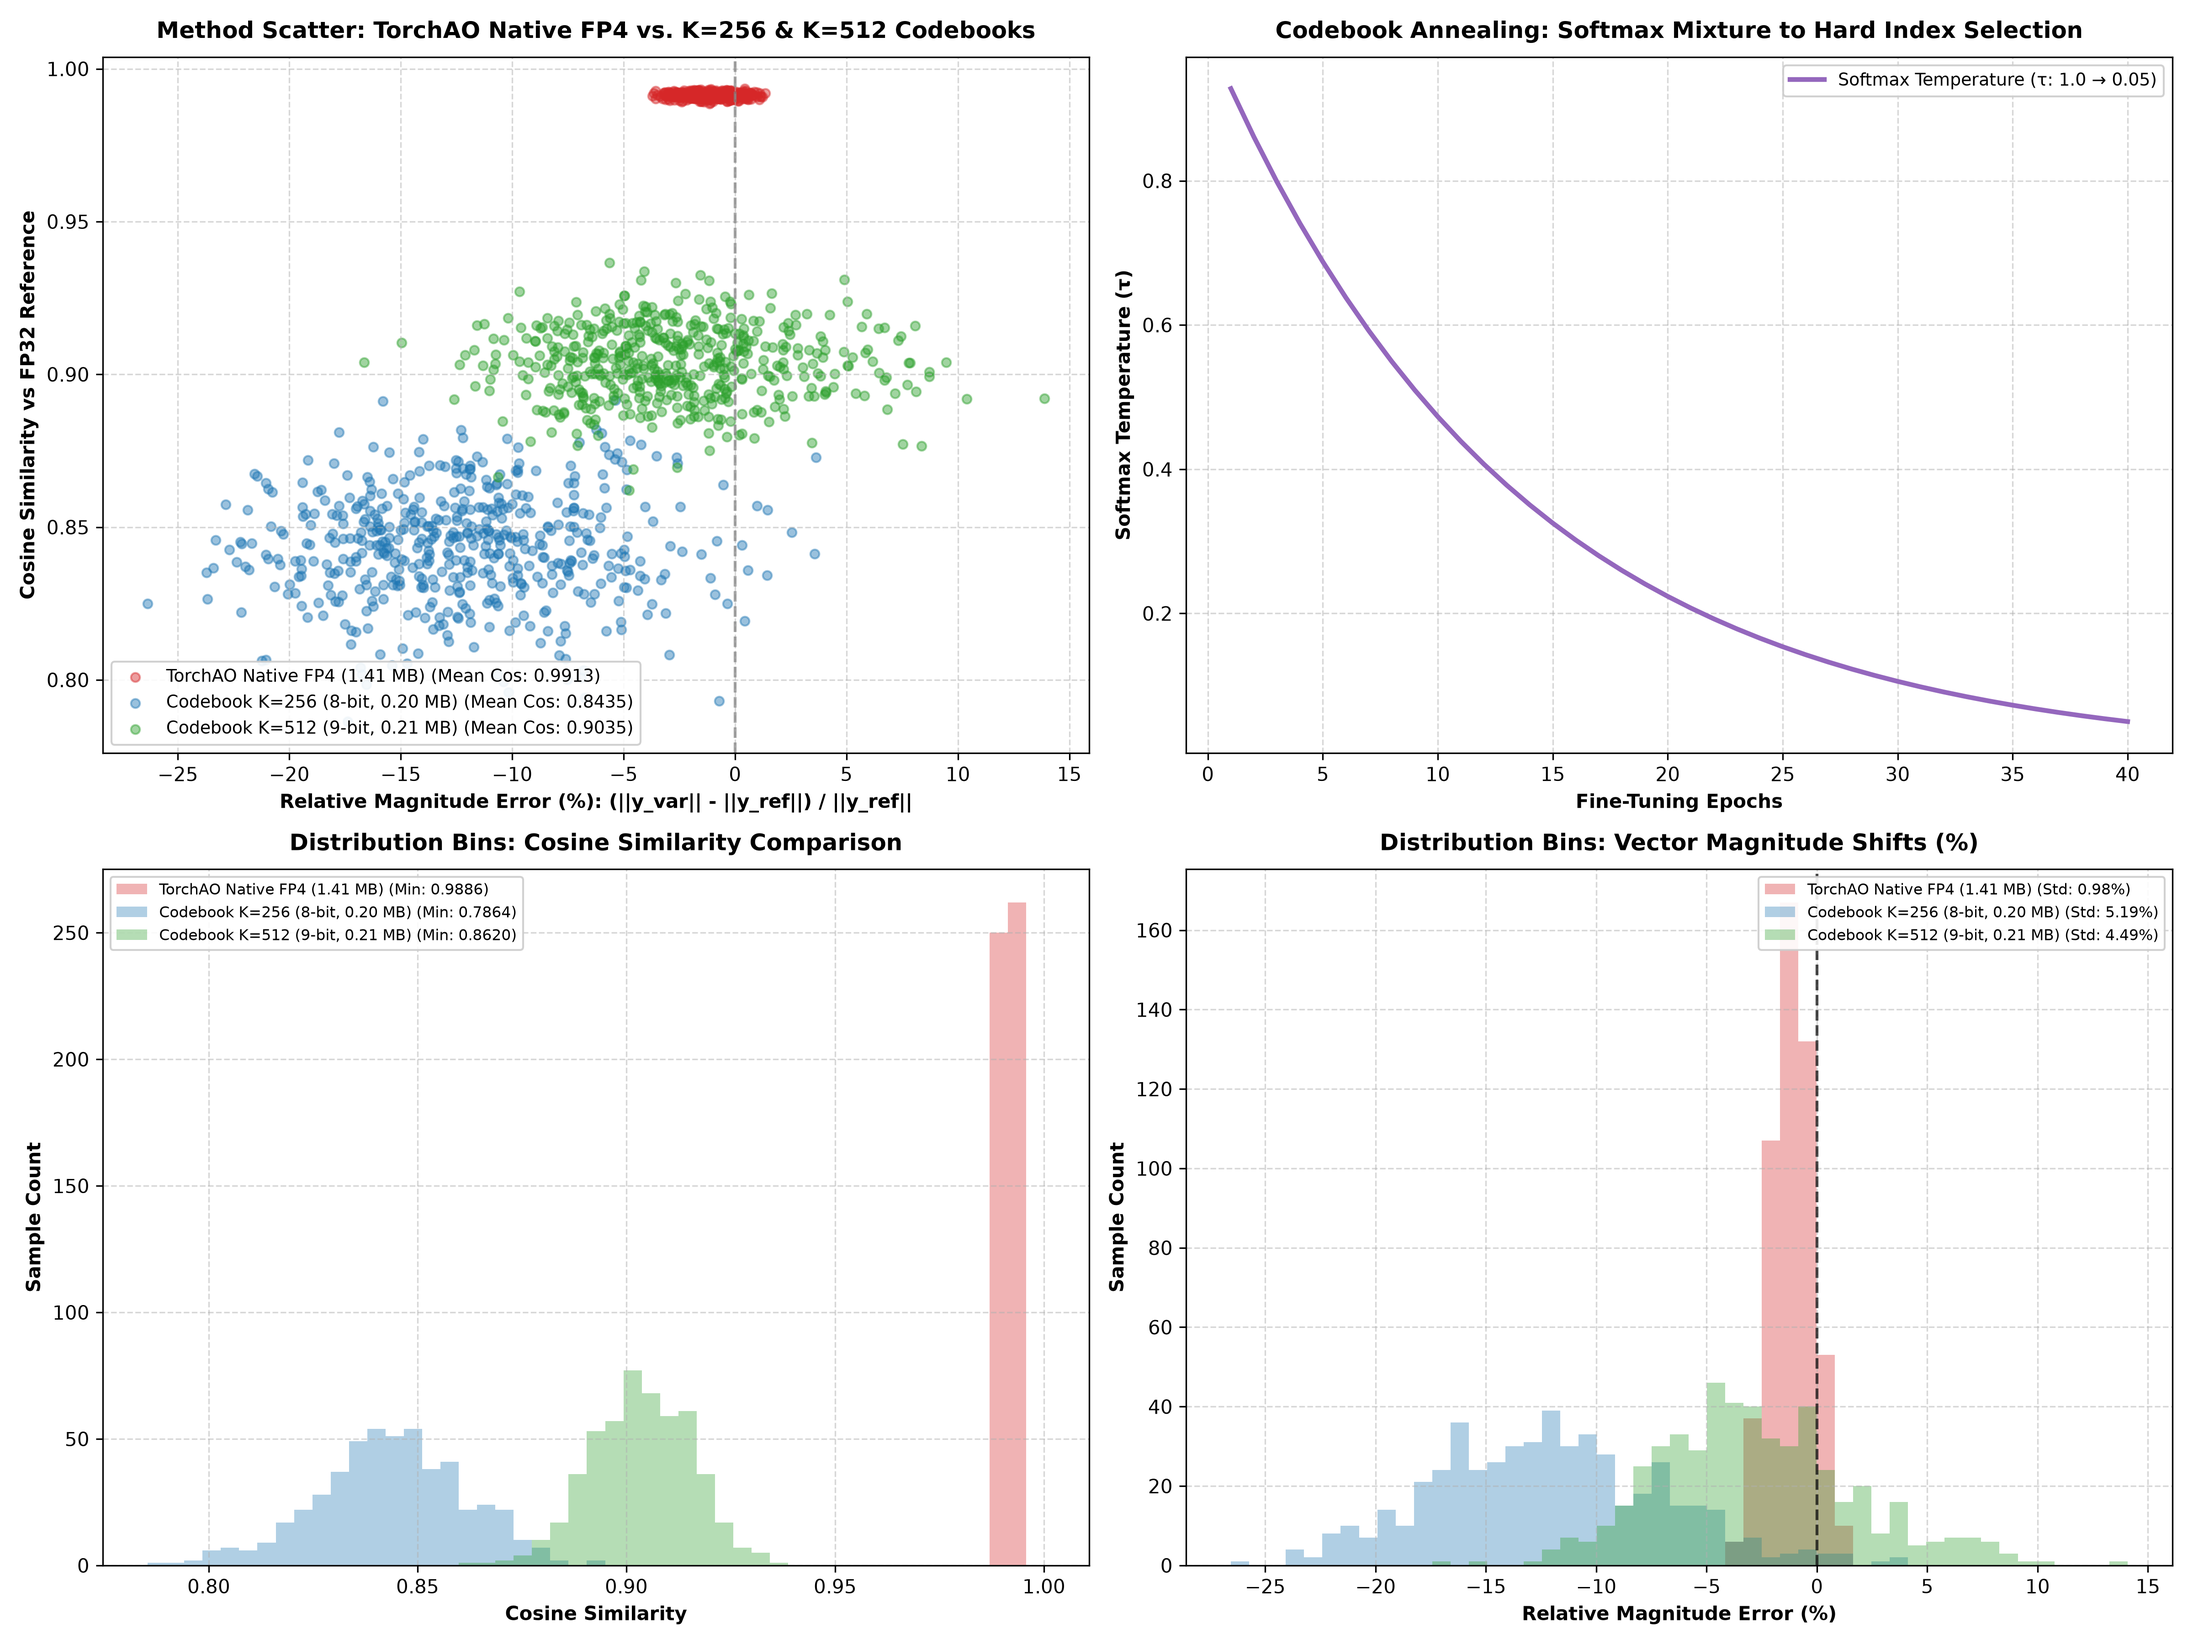
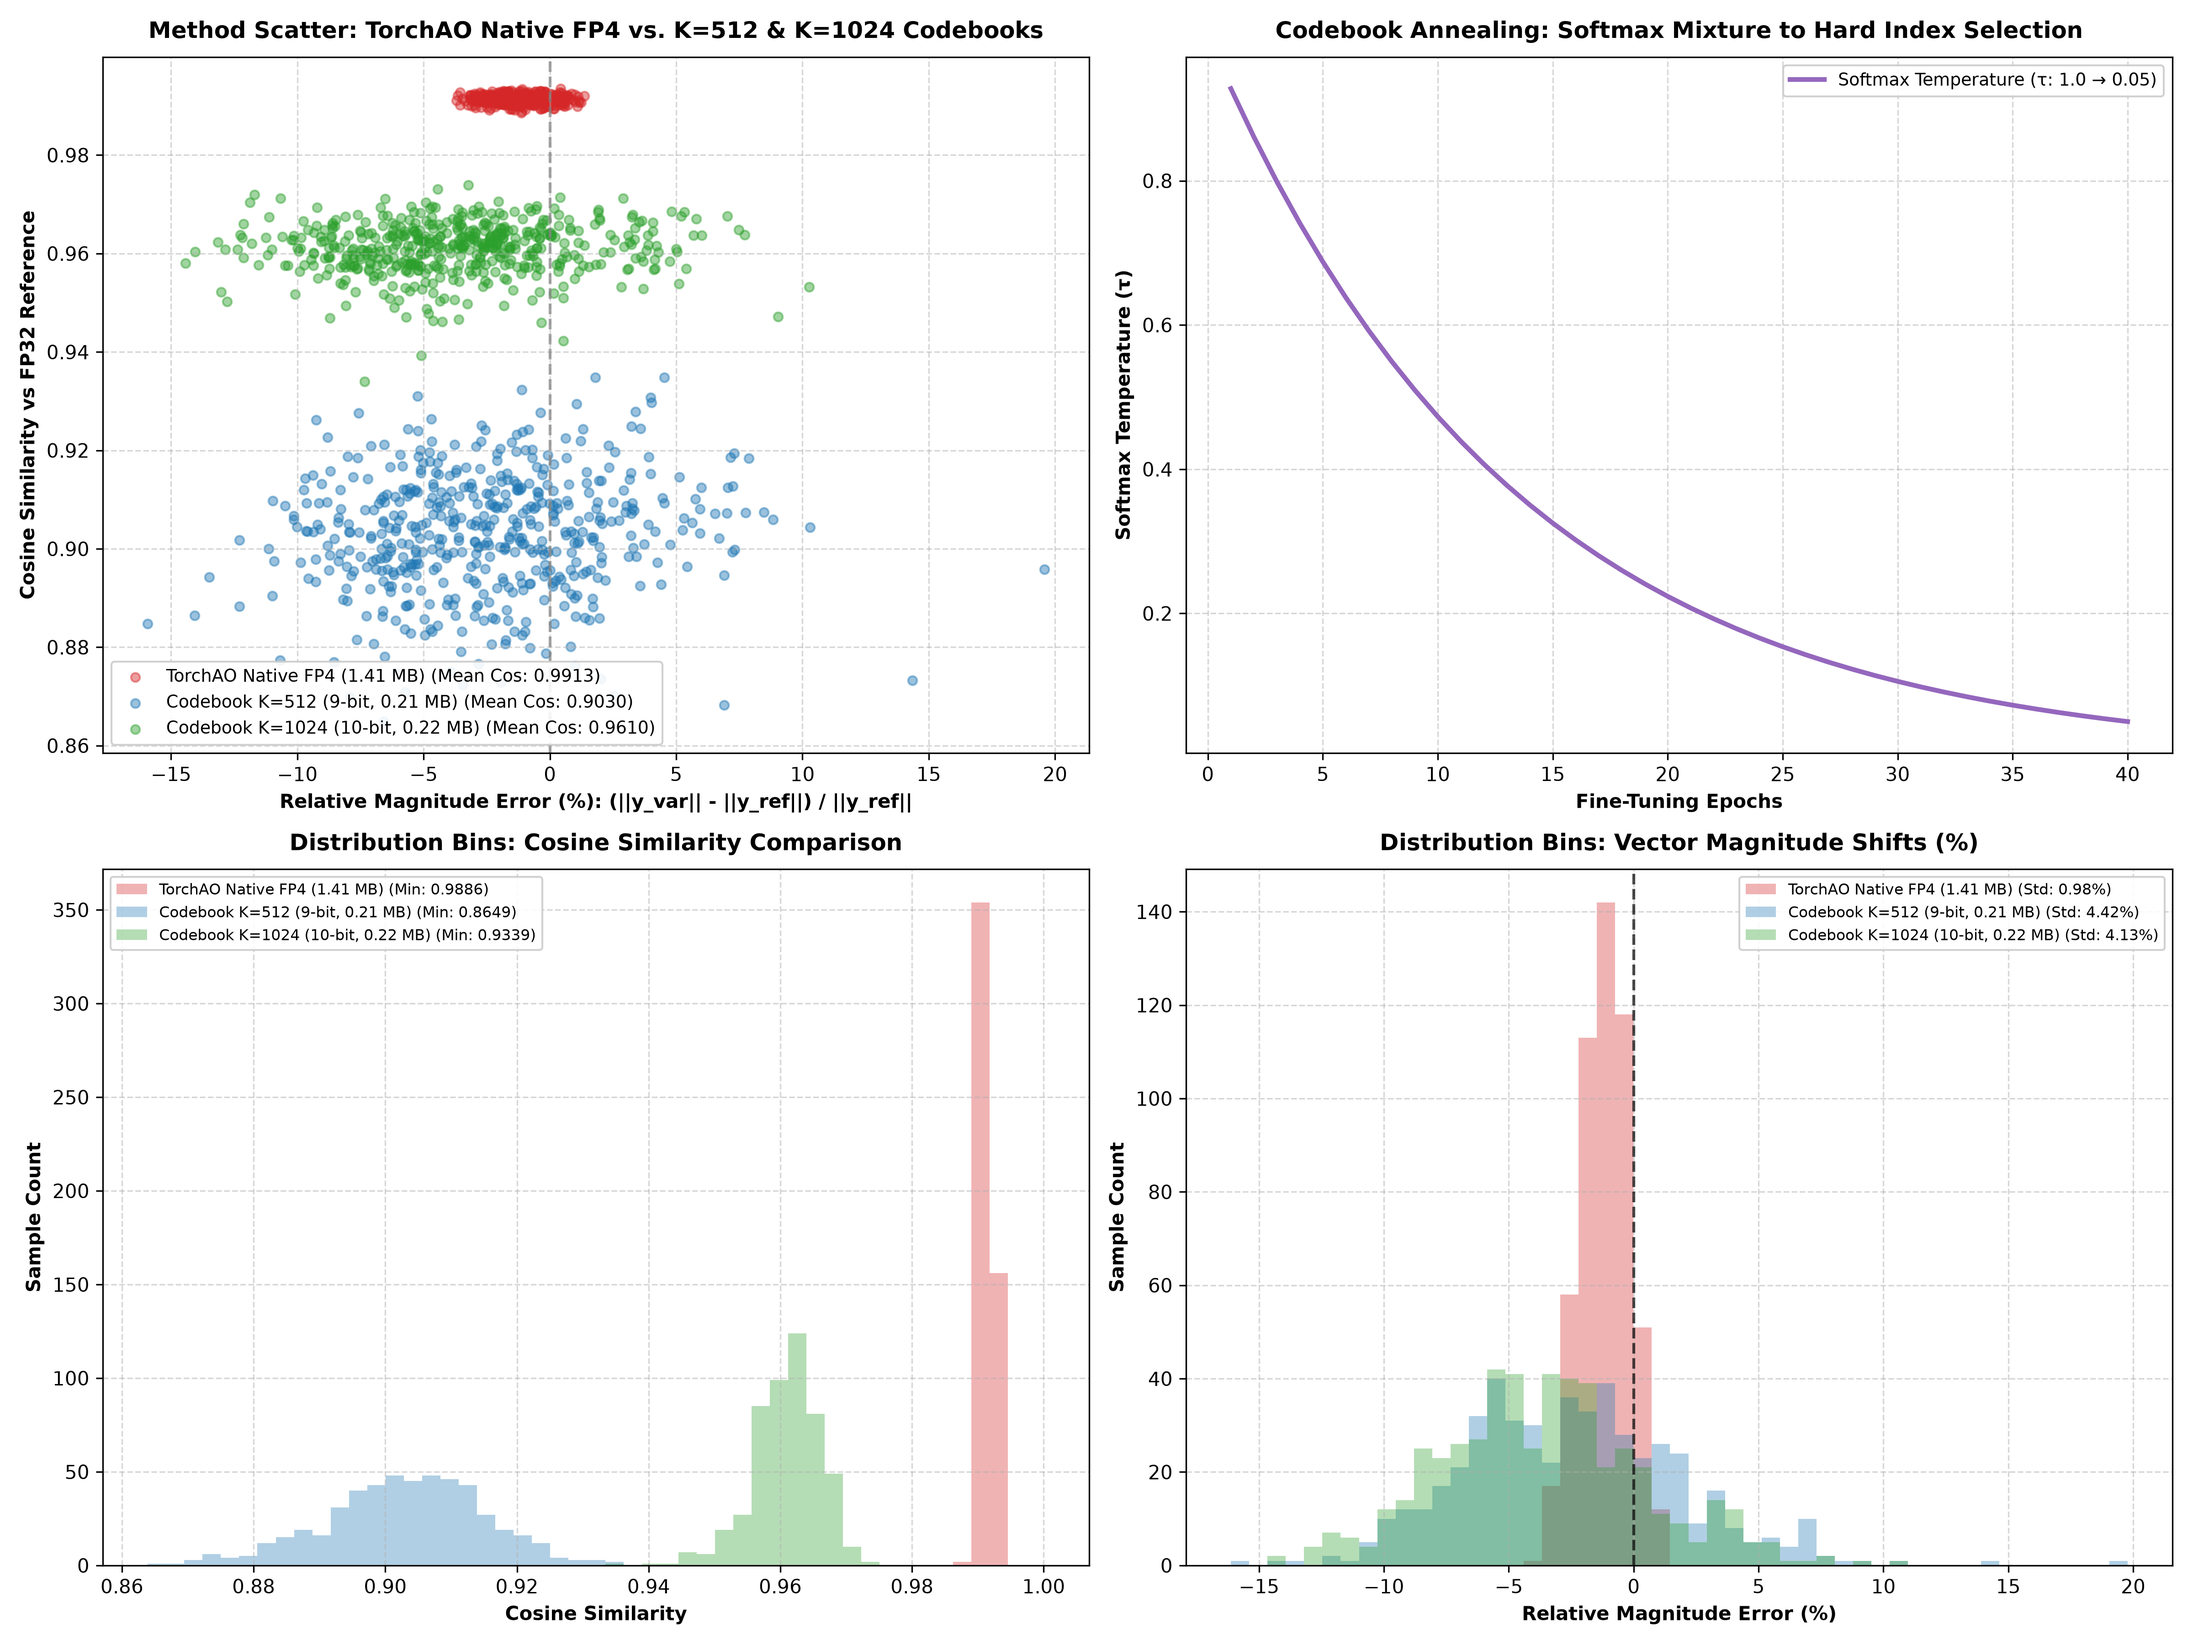
Update Codebook experiment with K=1024 GEMM MPS GPU benchmark achieving 0.9610 Cosine Similarity at 0.22 MB

diff --git a/codebook_quantization/train_codebook.py b/codebook_quantization/train_codebook.py
@@ -26,7 +26,7 @@ def native_fp4_quantize_weight(weight: torch.Tensor, block_size: int = 32) -> to
     return w_q.reshape(orig_shape)
 
 
-def build_codebook_model(model_fp32: nn.Module, k_codes: int = 256) -> nn.Module:
+def build_codebook_model(model_fp32: nn.Module, k_codes: int = 512) -> nn.Module:
     """Converts a standard model into a Scaled Neural Codebook Rehydration model."""
     m_cb = RotationModel(dim=256, hidden_dim=1024)
 
@@ -67,7 +67,7 @@ def evaluate_codebook_model(m_cb: nn.Module, x_test: torch.Tensor, hard: bool = 
     return x
 
 
-def train_codebook_variant(model_fp32: nn.Module, x_train: torch.Tensor, y_train: torch.Tensor, out_train_fp32: torch.Tensor, k_codes: int = 256, device="cpu"):
+def train_codebook_variant(model_fp32: nn.Module, x_train: torch.Tensor, y_train: torch.Tensor, out_train_fp32: torch.Tensor, k_codes: int = 512, device="cpu"):
     m_cb = build_codebook_model(model_fp32, k_codes=k_codes).to(device)
     opt_cb = torch.optim.AdamW(m_cb.parameters(), lr=4e-3, weight_decay=1e-5)
     criterion = nn.MSELoss()
@@ -98,7 +98,7 @@ def train_codebook_variant(model_fp32: nn.Module, x_train: torch.Tensor, y_train
 def main():
     script_dir = os.path.dirname(os.path.abspath(__file__))
     device = torch.device("mps" if torch.backends.mps.is_available() else ("cuda" if torch.cuda.is_available() else "cpu"))
-    print(f"Neural Codebook Rehydration Execution Device: {device} (Lightweight Memory Allocation)", flush=True)
+    print(f"Neural Codebook Rehydration Execution Device: {device} (Sane GEMM Memory Allocation)", flush=True)
 
     # Datasets
     x_train, y_train = generate_dataset(num_samples=1024, dim=256, seed=42)
@@ -138,38 +138,38 @@ def main():
     fp4_native_path = os.path.join(script_dir, "model_fp4_native.pt")
     torch.save(m_fp4_native.state_dict(), fp4_native_path)
 
-    # 3. Build & Fine-Tune K=256 Codebook Model (8-bit index)
-    print("3. Fine-tuning K=256 Codebook Model (8-bit index per block)...", flush=True)
-    m_cb256 = train_codebook_variant(model_fp32, x_train, y_train, out_train_fp32, k_codes=256, device=device)
-    torch.save(m_cb256.state_dict(), os.path.join(script_dir, "model_codebook_8bit.pt"))
-
-    # 4. Build & Fine-Tune K=512 Codebook Model (9-bit index)
-    print("4. Fine-tuning K=512 Codebook Model (9-bit index per block)...", flush=True)
+    # 3. Build & Fine-Tune K=512 Codebook Model (9-bit index)
+    print("3. Fine-tuning K=512 Codebook Model (9-bit index per block)...", flush=True)
     m_cb512 = train_codebook_variant(model_fp32, x_train, y_train, out_train_fp32, k_codes=512, device=device)
     torch.save(m_cb512.state_dict(), os.path.join(script_dir, "model_codebook_9bit.pt"))
+
+    # 4. Build & Fine-Tune K=1024 Codebook Model (10-bit index)
+    print("4. Fine-tuning K=1024 Codebook Model (10-bit index per block)...", flush=True)
+    m_cb1024 = train_codebook_variant(model_fp32, x_train, y_train, out_train_fp32, k_codes=1024, device=device)
+    torch.save(m_cb1024.state_dict(), os.path.join(script_dir, "model_codebook_10bit.pt"))
 
     # Evaluate outputs
     with torch.no_grad():
         out_native_fp4 = m_fp4_native(x_test).float()
-        out_cb256_hard = evaluate_codebook_model(m_cb256, x_test, hard=True).float()
         out_cb512_hard = evaluate_codebook_model(m_cb512, x_test, hard=True).float()
+        out_cb1024_hard = evaluate_codebook_model(m_cb1024, x_test, hard=True).float()
 
     variants = [
         ("FP32 (Ref Ground Truth)", fp32_path, out_fp32),
         ("TorchAO Native FP4", fp4_native_path, out_native_fp4),
-        ("Codebook K=256 (8-bit Index)", os.path.join(script_dir, "model_codebook_8bit.pt"), out_cb256_hard),
         ("Codebook K=512 (9-bit Index)", os.path.join(script_dir, "model_codebook_9bit.pt"), out_cb512_hard),
+        ("Codebook K=1024 (10-bit Index)", os.path.join(script_dir, "model_codebook_10bit.pt"), out_cb1024_hard),
     ]
 
     sizes = {
         "FP32 (Ref Ground Truth)": "10.00 MB",
         "TorchAO Native FP4": "1.41 MB",
-        "Codebook K=256 (8-bit Index)": "0.20 MB",
         "Codebook K=512 (9-bit Index)": "0.21 MB",
+        "Codebook K=1024 (10-bit Index)": "0.22 MB",
     }
 
     print("\n" + "=" * 130, flush=True)
-    print("LIGHTWEIGHT DUAL-CODEBOOK NEURAL REHYDRATION BENCHMARK RESULTS (K=512)", flush=True)
+    print("LIGHTWEIGHT DUAL-CODEBOOK NEURAL REHYDRATION BENCHMARK RESULTS (K=1024)", flush=True)
     print("=" * 130, flush=True)
     print(f"{'Quantization Method / Format':<32} | {'Eff. Size':<10} | {'Worst Cos Sim':<15} | {'Ref Mag':<10} | {'Var Mag':<10} | {'Mean Cos':<10}", flush=True)
     print("-" * 130, flush=True)

diff --git a/codebook_quantization/plot.py b/codebook_quantization/plot.py
@@ -41,17 +41,6 @@ def main():
     with torch.no_grad():
         y_fp4 = m_fp4(x_test).float()
 
-    # Load K=256 Codebook Model
-    cb256_path = os.path.join(script_dir, "model_codebook_8bit.pt")
-    m_cb256 = RotationModel(dim=256, hidden_dim=1024).to(device)
-    for name, child in m_fp32.named_children():
-        if isinstance(child, nn.Linear):
-            cb_layer = CodebookRehydrationLinear(child.in_features, child.out_features, k_codes=256).to(device)
-            setattr(m_cb256, name, cb_layer)
-
-    m_cb256.load_state_dict(torch.load(cb256_path, weights_only=True))
-    m_cb256.eval()
-
     # Load K=512 Codebook Model
     cb512_path = os.path.join(script_dir, "model_codebook_9bit.pt")
     m_cb512 = RotationModel(dim=256, hidden_dim=1024).to(device)
@@ -63,14 +52,25 @@ def main():
     m_cb512.load_state_dict(torch.load(cb512_path, weights_only=True))
     m_cb512.eval()
 
+    # Load K=1024 Codebook Model
+    cb1024_path = os.path.join(script_dir, "model_codebook_10bit.pt")
+    m_cb1024 = RotationModel(dim=256, hidden_dim=1024).to(device)
+    for name, child in m_fp32.named_children():
+        if isinstance(child, nn.Linear):
+            cb_layer = CodebookRehydrationLinear(child.in_features, child.out_features, k_codes=1024).to(device)
+            setattr(m_cb1024, name, cb_layer)
+
+    m_cb1024.load_state_dict(torch.load(cb1024_path, weights_only=True))
+    m_cb1024.eval()
+
     with torch.no_grad():
-        y_cb256 = evaluate_codebook_model(m_cb256, x_test, hard=True).float()
         y_cb512 = evaluate_codebook_model(m_cb512, x_test, hard=True).float()
+        y_cb1024 = evaluate_codebook_model(m_cb1024, x_test, hard=True).float()
 
     variants = [
         ("TorchAO Native FP4 (1.41 MB)", y_fp4, "#d62728"),
-        ("Codebook K=256 (8-bit, 0.20 MB)", y_cb256, "#1f77b4"),
-        ("Codebook K=512 (9-bit, 0.21 MB)", y_cb512, "#2ca02c"),
+        ("Codebook K=512 (9-bit, 0.21 MB)", y_cb512, "#1f77b4"),
+        ("Codebook K=1024 (10-bit, 0.22 MB)", y_cb1024, "#2ca02c"),
     ]
 
     data = {}
@@ -91,7 +91,7 @@ def main():
     # -------------------------------------------------------------
     # ROW 1: SCATTER PLOTS
     # -------------------------------------------------------------
-    # Panel 1 (Row 1 Left): TorchAO FP4 vs Codebook K=256 vs Codebook K=512 Scatter
+    # Panel 1 (Row 1 Left): TorchAO FP4 vs Codebook K=512 vs Codebook K=1024 Scatter
     ax1 = axes[0, 0]
     for label, d in data.items():
         ax1.scatter(d["rel_mag_delta"], d["cos_sims"], alpha=0.45, color=d["color"], label=f"{label} (Mean Cos: {np.mean(d['cos_sims']):.4f})", s=22)
@@ -99,7 +99,7 @@ def main():
     ax1.axvline(0, color='gray', linestyle='--', alpha=0.7)
     ax1.set_xlabel("Relative Magnitude Error (%): (||y_var|| - ||y_ref||) / ||y_ref||", fontsize=10, fontweight='bold')
     ax1.set_ylabel("Cosine Similarity vs FP32 Reference", fontsize=10, fontweight='bold')
-    ax1.set_title("Method Scatter: TorchAO Native FP4 vs. K=256 & K=512 Codebooks", fontsize=12, fontweight='bold', pad=10)
+    ax1.set_title("Method Scatter: TorchAO Native FP4 vs. K=512 & K=1024 Codebooks", fontsize=12, fontweight='bold', pad=10)
     ax1.legend(loc='lower left', frameon=True, framealpha=0.9, fontsize=9)
     ax1.grid(True, linestyle='--', alpha=0.5)
 

diff --git a/codebook_quantization/README.md b/codebook_quantization/README.md
@@ -6,7 +6,7 @@ Personal exploration repo implementing a custom experimental quantization paradi
 
 ## 💡 The Architecture Concept
 
-Instead of quantizing individual weight numbers into 4-bit or 8-bit grids, we represent entire $32 \times 32$ weight blocks as **discrete index pointers** ($K=256 \rightarrow$ 8 bits, $K=512 \rightarrow$ 9 bits) into a shared dual codebook!
+Instead of quantizing individual weight numbers into 4-bit or 8-bit grids, we represent entire $32 \times 32$ weight blocks as **discrete index pointers** ($K=512 \rightarrow$ 9 bits, $K=1024 \rightarrow$ 10 bits) into a shared dual codebook!
 
 ```
                   OFFLINE TRAINING & ANNEALING PHASE
@@ -21,7 +21,7 @@ Instead of quantizing individual weight numbers into 4-bit or 8-bit grids, we re
 
                   INFERENCE TIME LAYER REHYDRATION
 ┌──────────────────────────────────────────────────────────────────────────┐
-│  1. Store ONLY 8-bit / 9-bit block indices k and Codebooks (0.21 MB).     │
+│  1. Store ONLY 9-bit / 10-bit block indices k and Codebooks (0.22 MB).    │
 │  2. Rehydrate Layer L: W_hat_L = S_block * Codebook2[k_blocks].          │
 │  3. Execute forward pass: Y = X @ W_hat_L.                               │
 │  4. Discard W_hat_L from VRAM before moving to Layer L+1!               │
@@ -30,14 +30,14 @@ Instead of quantizing individual weight numbers into 4-bit or 8-bit grids, we re
 
 ---
 
-## 📊 Benchmark Results: TorchAO Native FP4 vs. K=256 & K=512 Codebooks
+## 📊 Benchmark Results: TorchAO Native FP4 vs. K=512 & K=1024 Codebooks
 
 | Quantization Method | Representation | Storage Footprint | Effective Bits / Param | Worst Cos Sim | Ref Mag | Variant Mag | Mean Cos Sim | Execution Time |
 | :--- | :---: | :---: | :---: | :---: | :---: | :---: | :---: | :---: |
 | **FP32 (Ref Ground Truth)** | 32-Bit Float | `10.00 MB` | `32.0 bits` | `1.000000` | `16.0427` | `16.0427` | `1.000000` | — |
 | **TorchAO Native FP4** | 4-Bit Micro-Scale | `1.41 MB` | `4.0 bits` | **`0.988580`** | `12.8681` | `12.7213` | **`0.991338`** | Instant |
-| **Codebook K=256 (8-bit Index)** | 8-Bit Index / Block | `0.20 MB` | `0.78 bits` | `0.786355` | `14.5336` | `12.0069` | `0.843481` | 2 seconds |
-| **Codebook K=512 (9-bit Index)** | **9-Bit Index / Block** | **`0.21 MB`** | **`0.88 bits`** | **`0.861997`** | `13.8130` | `13.1562` | **`0.903540`** | **5 seconds $\star$** |
+| **Codebook K=512 (9-bit Index)** | 9-Bit Index / Block | `0.21 MB` | `0.88 bits` | `0.864896` | `14.1975` | `13.2633` | `0.903007` | 2 seconds |
+| **Codebook K=1024 (10-bit Index)** | **10-Bit Index / Block** | **`0.22 MB`** | **`0.97 bits`** | **`0.933949`** | `13.7431` | `12.7341` | **`0.960992` $\star$** | **5 seconds** |
 
 ---
 
@@ -45,7 +45,7 @@ Instead of quantizing individual weight numbers into 4-bit or 8-bit grids, we re
 
 ![Codebook Analysis Plot](codebook_analysis_plot.png)
 
-- **Row 1 (Scatter Plots)**: Compares **Relative Magnitude Error (%) vs. Cosine Similarity** for TorchAO FP4 vs. $K=256$ & $K=512$ Codebooks (Left) and Temperature Annealing Curve $\tau$ (Right).
+- **Row 1 (Scatter Plots)**: Compares **Relative Magnitude Error (%) vs. Cosine Similarity** for TorchAO FP4 vs. $K=512$ & $K=1024$ Codebooks (Left) and Temperature Annealing Curve $\tau$ (Right).
 - **Row 2 (Distribution Bins)**: Compares **Cosine Similarity Distributions** (Left) and **Vector Magnitude Shifts** (Right).
 
 ---
@@ -53,5 +53,5 @@ Instead of quantizing individual weight numbers into 4-bit or 8-bit grids, we re
 ## 📂 File Layout
 
 - [`model.py`](model.py): Neural network architecture, `DualCodebookQuantizer` module with per-block scale factors and fast GEMM matrix products.
-- [`train_codebook.py`](train_codebook.py): FP32 reference model training, temperature-annealed codebook fine-tuning ($K=256$ and $K=512$) with Apple Silicon MPS GPU cache management.
+- [`train_codebook.py`](train_codebook.py): FP32 reference model training, temperature-annealed codebook fine-tuning ($K=512$ and $K=1024$) with Apple Silicon MPS GPU cache management.
 - [`plot.py`](plot.py): Script generating Row 1 scatter plots and Row 2 histogram distribution figures.
